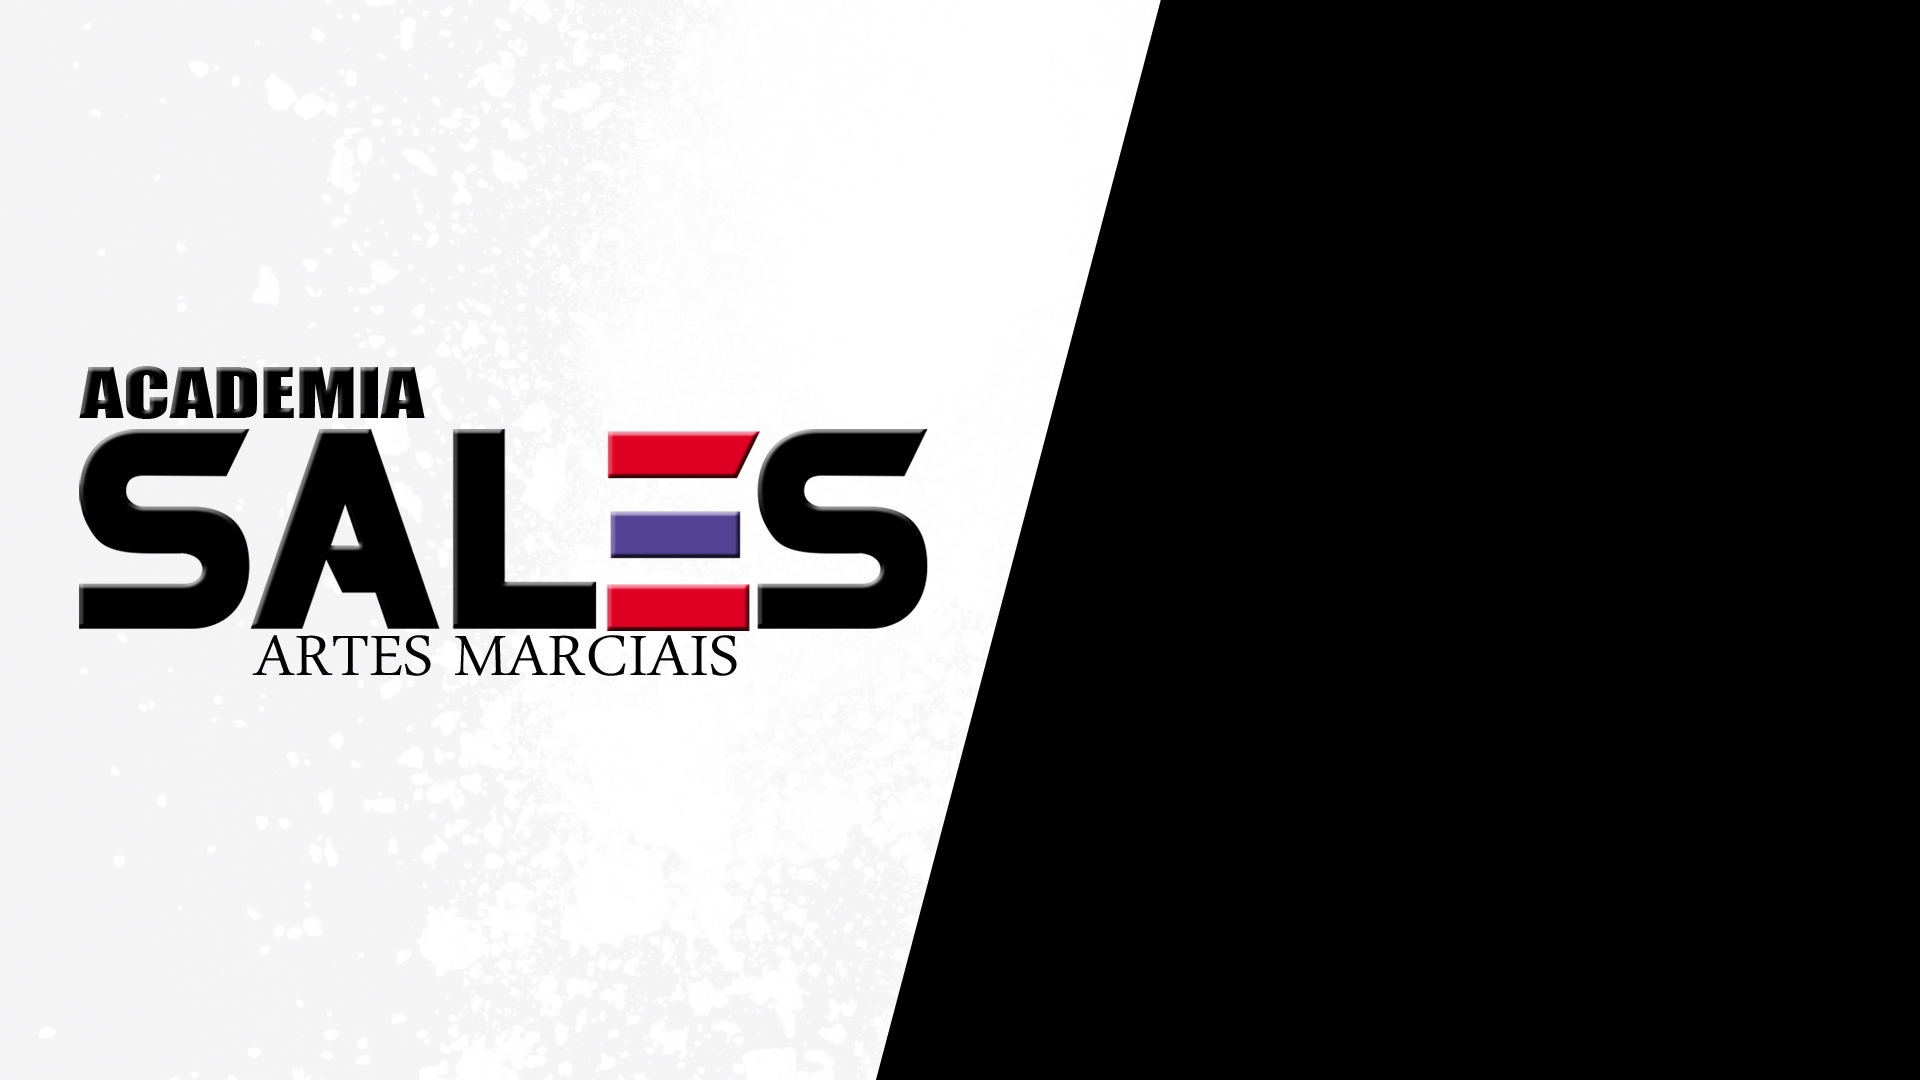
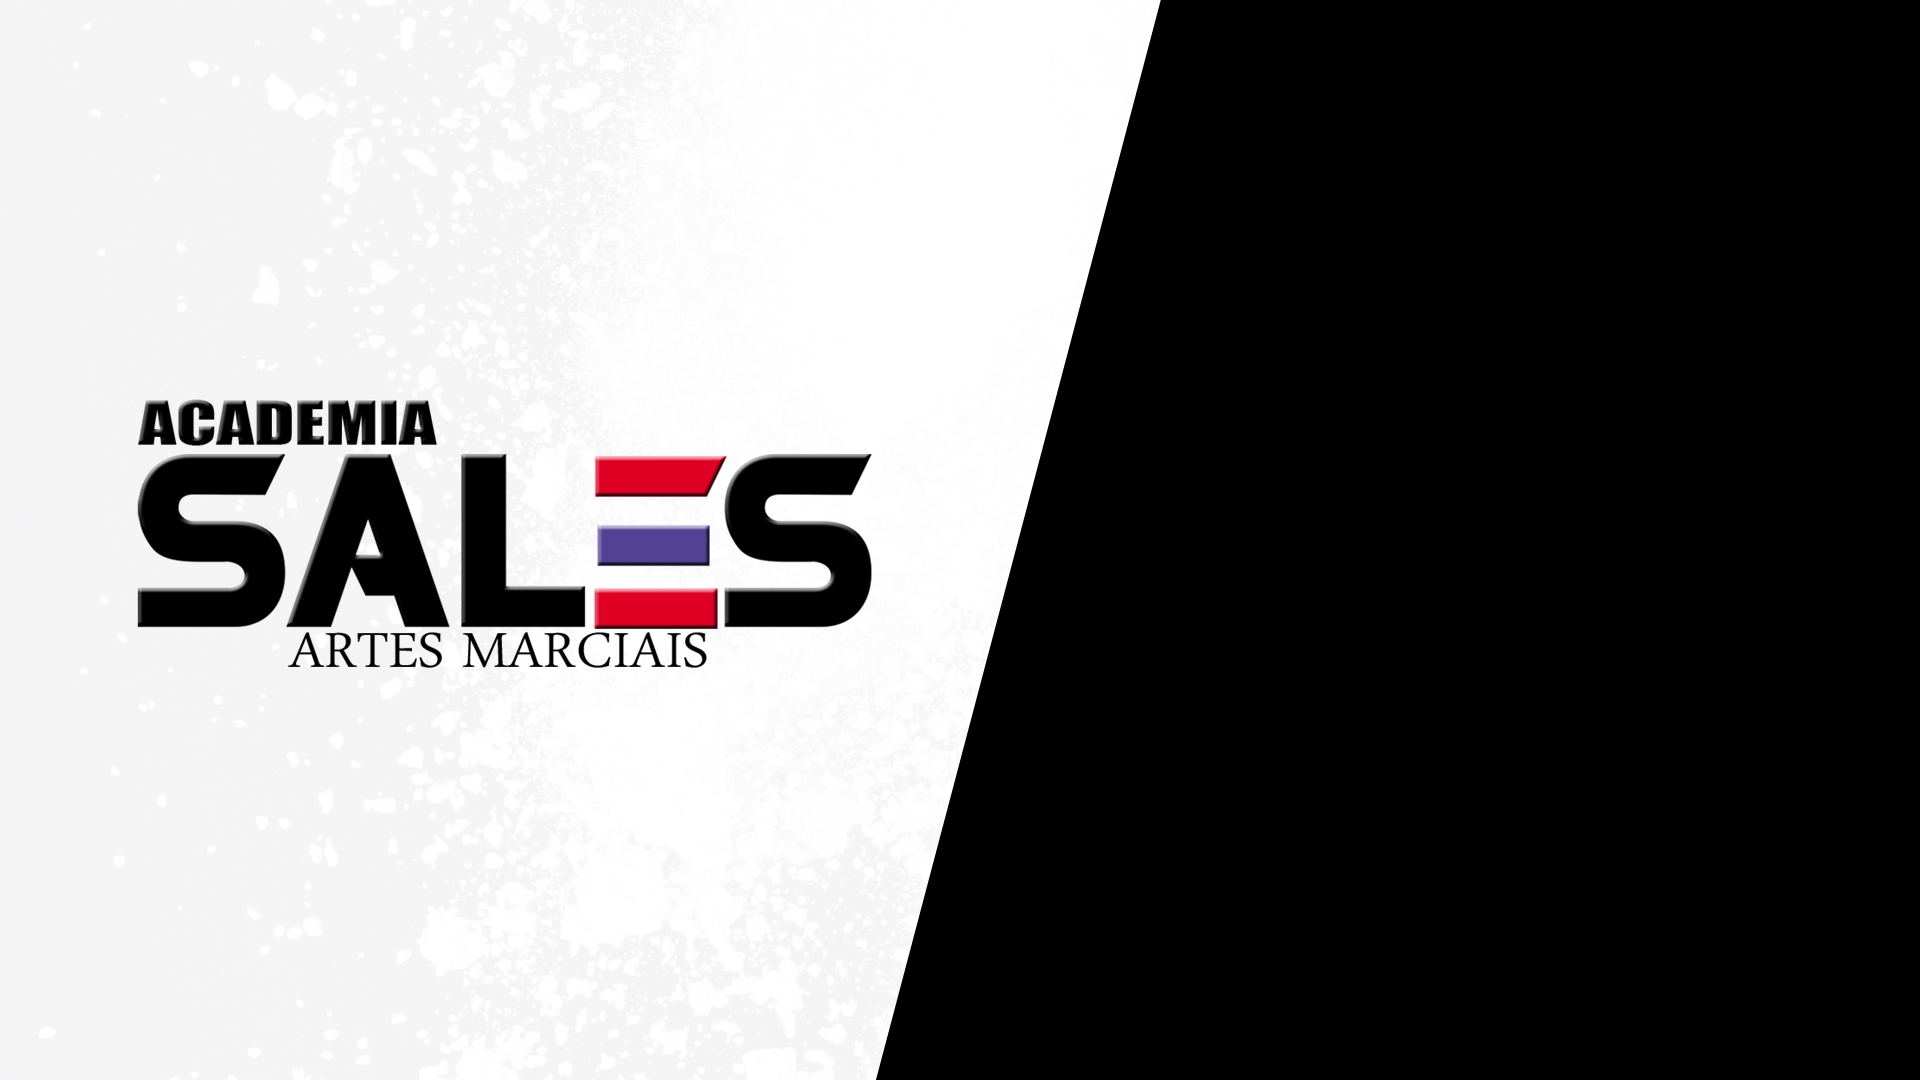
Correções tela de login

Changed region(s): [[0.0312, 0.3361, 0.5, 0.6417]]

diff --git a/index.php b/index.php
@@ -35,15 +35,17 @@
 
 
     <div class="login-form-bg" style="height: 100% !important;">
-        <div class="container mr-0" style="height: 100% !important;">
+        <div class="mr-0 ml-0" style="height: 100% !important;">
             <div class="row justify-content-center" style="height: 100% !important;">
-                <div class="col-xl-6">
+                <div class="col-lg-8">
+                </div>
+                <div class="col-lg-3">
                     <div class="form-input-content">
                         <div class="card login-form mb-0">
                             <div class="card-body pt-5">
                                 <div>
                                 <center>
-                                    <img src="../images/login-png.png"></img>
+                                    <img src="../images/login-png.png" style="height: 120px"></img>
                                 </center>
                                 </div>
                                 </br>
@@ -74,6 +76,8 @@
                             </div>
                         </div>
                     </div>
+                </div>
+                <div class="col-lg-1">
                 </div>
             </div>
         </div>
